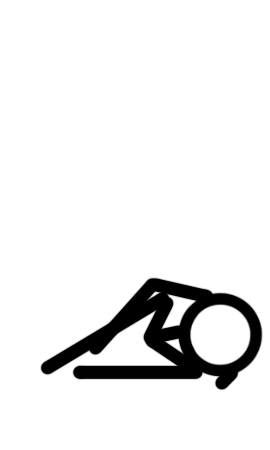
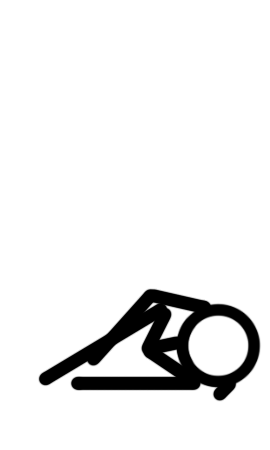
Death
# Conflicts:
#	Classes/Game.py

Changed region(s): [[0.1481, 0.5911, 0.9778, 0.9022]]

diff --git a/Classes/player.py b/Classes/player.py
@@ -3,7 +3,7 @@ from enum import Enum
 import pygame
 import os
 from Classes.aabb import AABB
-from Classes.spritesheet import Animator, Animation
+from Classes.animator import Animator, Animation
 
 class Facing(Enum):
     RIGHT = 1
@@ -23,6 +23,7 @@ class State(Enum):
     PARRY = "Parry"
     HURT = "Hurt"
     TIRED = "Tired"
+    DEAD = "Dead"
 
 FREE_STATES = {State.IDLE, State.FORWARD_WALK, State.BACKWARD_WALK}
 
@@ -32,6 +33,7 @@ DEFAULT_LENGTHS = {
     State.PARRY: 250,
     State.HURT: 400,
     State.TIRED: 400,
+    State.DEAD: 400,
 }
 
 WALK_SPEED = 6
@@ -71,7 +73,8 @@ sprite_dict = {
     "dashBack": load_frames("Assets/stick/dashBack") ,
     "block": load_frames("Assets/stick/block") ,
     "hurt": load_frames("Assets/stick/hurt") ,
-    "tired": load_frames("Assets/stick/tired") 
+    "tired": load_frames("Assets/stick/tired"),
+    "dead":load_frames("Assets/stick/defete")
 }
 
 # Recolours the frames
@@ -100,7 +103,8 @@ def get_asset(x):
            frames = sprite_dict["hurt"]
         case State.TIRED:
            frames = sprite_dict["tired"]
-
+        case State.DEAD:
+            frames = sprite_dict["dead"]
     return frames
 
 
@@ -123,7 +127,6 @@ class Player(pygame.sprite.Sprite):
         self.state = State.IDLE
         self.set_state(State.IDLE)
         self.frames = get_asset(self.state)
-        self.animator = Animator(Animation(self.frames, 300,))
         self.image = self.frames[0]
         self.rect = self.image.get_rect(topleft=(x, y))
         self.aabb = AABB(x, y, self.rect.w, self.rect.h)
@@ -172,11 +175,13 @@ class Player(pygame.sprite.Sprite):
         return self.state == State.PARRY
 
     def set_state(self, state: State):
+        if self.state == State.DEAD:
+            return
         self.prevState = self.state
         self.state = state
         self.state_time = 0
         self.frames = get_asset(self.state)
-        self.animator = Animator(Animation(self.frames, 300,))
+        self.animator = Animator(Animation(self.frames, 300,"once" if self.state == State.DEAD else "repeat"))
         self.state_length = DEFAULT_LENGTHS.get(state,0)
 
         # change bounding box state based on new state
@@ -234,7 +239,9 @@ class Player(pygame.sprite.Sprite):
         return int(self.press_dict["r"]["down"]) - int(self.press_dict["l"]["down"])
 
     def _update_state(self, parry=False):
-        if self.free:
+        if self.state == State.DEAD:
+            return
+        elif self.free:
             
             match (int(self.press_dict["l" if self.facing == Facing.RIGHT else "r"]["down"]), int(self.press_dict["r" if self.facing == Facing.RIGHT else "l"]["down"])):
                 case (0, 0):
@@ -283,6 +290,8 @@ class Player(pygame.sprite.Sprite):
             case State.HURT:
                 self.vx *= HURT_FRICTION
             case State.TIRED:
+                self.vx *= 0
+            case State.DEAD:
                 self.vx *= 0
 
         if abs(self.vx) < 0.01:

diff --git a/Classes/Game.py b/Classes/Game.py
@@ -35,11 +35,11 @@ class Game:
     def run(self):
         clock = pygame.time.Clock()
         running = True 
-        
+        in_round = True
         while running:
             dt = clock.tick(60)
-
-            # ------------- check events ---------------- #
+            
+        
             for event in pygame.event.get():
                 if event.type == pygame.QUIT:
                     running = False
@@ -60,19 +60,30 @@ class Game:
             # tick player logic
             self.p1.tick(dt)
             self.p2.tick(dt)
+            
+            if in_round:
+                # Flips players
+                if self.p1.x < self.p2.x:
+                    self.p1.facing = Facing.LEFT
+                    self.p2.facing = Facing.RIGHT
 
-            # Flips players
-            if self.p1.x < self.p2.x:
-                self.p1.facing = Facing.LEFT
-                self.p2.facing = Facing.RIGHT
+                if self.p1.x >= self.p2.x:
+                    self.p2.facing = Facing.LEFT
+                    self.p1.facing = Facing.RIGHT
 
-            if self.p1.x >= self.p2.x:
-                self.p2.facing = Facing.LEFT
-                self.p1.facing = Facing.RIGHT
+            if in_round:
+                # --------------- health stuff --------------------- #
+                self.healthbarL.setHealth(self.p1.health)
+                self.healthbarR.setHealth(self.p2.health)
 
-            # --------------- health stuff --------------------- #
-            self.healthbarL.setHealth(self.p1.health)
-            self.healthbarR.setHealth(self.p2.health)
+
+                if self.p1.health == 0:
+                    self.p1.set_state(State.DEAD)
+                    in_round = False
+                if self.p2.health == 0:
+                    self.p2.set_state(State.DEAD)
+                    in_round = False
+
 
             # ------------ drawing stuff ------------- #
             self.screen.fill(self.background_colour)
@@ -146,4 +157,6 @@ class Game:
 
         elif player.x + player.aabb.w > self.window_dimensions[0] + 25:
             player.vx = 0
+
             player.x = self.window_dimensions[0] - player.aabb.w + 25
+

diff --git a/Classes/animator.py b/Classes/animator.py
@@ -1,16 +1,20 @@
 import json
 import os
-
+import math
 import pygame
 
 
 class Animation:
-    def __init__(self, frames, duration):
+    def __init__(self, frames, duration,type_):
+       
         order = list(range(len(frames)))
         self.frames = [frames[i] for i in order]
         self.flipped = [pygame.transform.flip(frame, True, False) for frame in self.frames]
         self.durations = [duration for i in order]
         self.length = duration*(len(frames))
+        if type_ == "once":
+            self.length = math.inf
+
 
     def frame_at(self, time, loop=True, flip=False):
         frames = self.flipped if flip else self.frames
